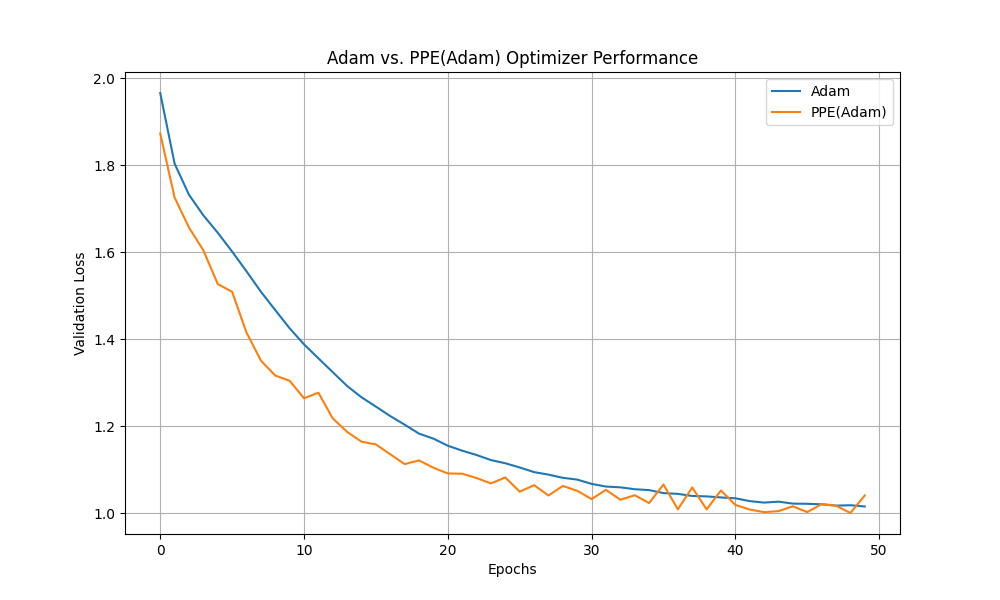
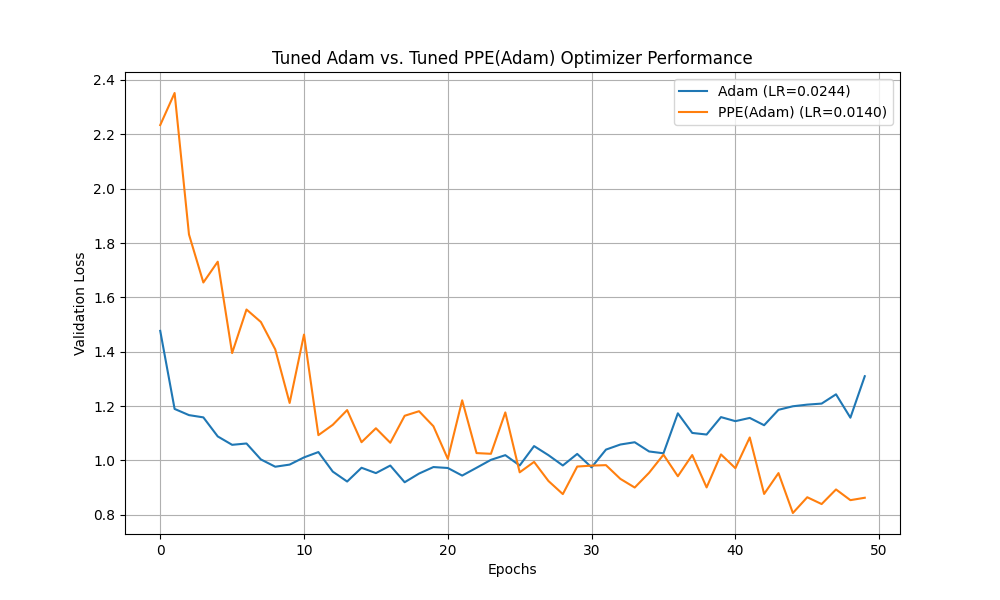
feat(ppe): Add learning rate tuning for fair comparison
This commit adds learning rate tuning to the PPE optimizer experiment using Optuna. This ensures a fairer comparison between the Adam and PPE(Adam) optimizers by finding the optimal learning rate for each before the final performance evaluation.

diff --git a/ppe_optimizer_experiment/compare.py b/ppe_optimizer_experiment/compare.py
@@ -5,6 +5,7 @@ from mnist1d.data import make_dataset, get_dataset_args
 import matplotlib.pyplot as plt
 import copy
 import os
+import optuna
 
 from optimizer import PPE
 
@@ -28,7 +29,7 @@ def create_model():
     )
 
 # --- 3. Training and Evaluation Loop ---
-def train_and_evaluate(optimizer, model, epochs=50):
+def train_and_evaluate(optimizer, model, epochs=50, verbose=True):
     criterion = nn.CrossEntropyLoss()
     val_losses = []
 
@@ -51,35 +52,67 @@ def train_and_evaluate(optimizer, model, epochs=50):
 
         val_loss = total_loss / len(dl_test.data[0])
         val_losses.append(val_loss)
-        print(f"Epoch {epoch+1}/{epochs}, Val Loss: {val_loss:.4f}")
+        if verbose:
+            print(f"Epoch {epoch+1}/{epochs}, Val Loss: {val_loss:.4f}")
 
     return val_losses
 
-# --- 4. Optimizer Comparison ---
+# --- 4. Hyperparameter Tuning with Optuna ---
+def objective(trial, optimizer_name, initial_model):
+    model = copy.deepcopy(initial_model)
+    lr = trial.suggest_float('lr', 1e-5, 1e-1, log=True)
+
+    if optimizer_name == 'Adam':
+        optimizer = torch.optim.Adam(model.parameters(), lr=lr)
+    elif optimizer_name == 'PPE':
+        base_optimizer = torch.optim.Adam(model.parameters(), lr=lr)
+        optimizer = PPE(model.parameters(), base_optimizer, history_size=10, degree=2, alpha=0.4)
+    else:
+        raise ValueError("Unknown optimizer")
+
+    # Use fewer epochs for tuning to speed up the process
+    val_losses = train_and_evaluate(optimizer, model, epochs=20, verbose=False)
+    return min(val_losses) # Return the best validation loss
+
+def tune_optimizer_lr(optimizer_name, initial_model, n_trials=20):
+    study = optuna.create_study(direction='minimize')
+    study.optimize(lambda trial: objective(trial, optimizer_name, initial_model), n_trials=n_trials)
+    print(f"Best LR for {optimizer_name}: {study.best_params['lr']:.6f}")
+    return study.best_params['lr']
+
+
+# --- 5. Optimizer Comparison ---
 if __name__ == "__main__":
     # Ensure fair comparison by starting with the same initial weights
     initial_model = create_model()
 
-    # --- Adam Optimizer ---
-    print("--- Training with Adam ---")
+    # --- Tune Learning Rates ---
+    print("--- Tuning Adam Learning Rate ---")
+    best_lr_adam = tune_optimizer_lr('Adam', initial_model)
+
+    print("\n--- Tuning PPE(Adam) Learning Rate ---")
+    best_lr_ppe = tune_optimizer_lr('PPE', initial_model)
+
+
+    # --- Train with Best Learning Rates ---
+    print("\n--- Training with Adam (Tuned LR) ---")
     model_adam = copy.deepcopy(initial_model)
-    optimizer_adam = torch.optim.Adam(model_adam.parameters(), lr=1e-3)
+    optimizer_adam = torch.optim.Adam(model_adam.parameters(), lr=best_lr_adam)
     losses_adam = train_and_evaluate(optimizer_adam, model_adam)
 
-    # --- PPE(Adam) Optimizer ---
-    print("\n--- Training with PPE(Adam) ---")
+    print("\n--- Training with PPE(Adam) (Tuned LR) ---")
     model_ppe = copy.deepcopy(initial_model)
-    base_optimizer_ppe = torch.optim.Adam(model_ppe.parameters(), lr=1e-3)
+    base_optimizer_ppe = torch.optim.Adam(model_ppe.parameters(), lr=best_lr_ppe)
     optimizer_ppe = PPE(model_ppe.parameters(), base_optimizer_ppe, history_size=10, degree=2, alpha=0.4)
     losses_ppe = train_and_evaluate(optimizer_ppe, model_ppe)
 
-    # --- 5. Plotting Results ---
+    # --- 6. Plotting Results ---
     plt.figure(figsize=(10, 6))
-    plt.plot(losses_adam, label='Adam')
-    plt.plot(losses_ppe, label='PPE(Adam)')
+    plt.plot(losses_adam, label=f'Adam (LR={best_lr_adam:.4f})')
+    plt.plot(losses_ppe, label=f'PPE(Adam) (LR={best_lr_ppe:.4f})')
     plt.xlabel('Epochs')
     plt.ylabel('Validation Loss')
-    plt.title('Adam vs. PPE(Adam) Optimizer Performance')
+    plt.title('Tuned Adam vs. Tuned PPE(Adam) Optimizer Performance')
     plt.legend()
     plt.grid(True)
 
